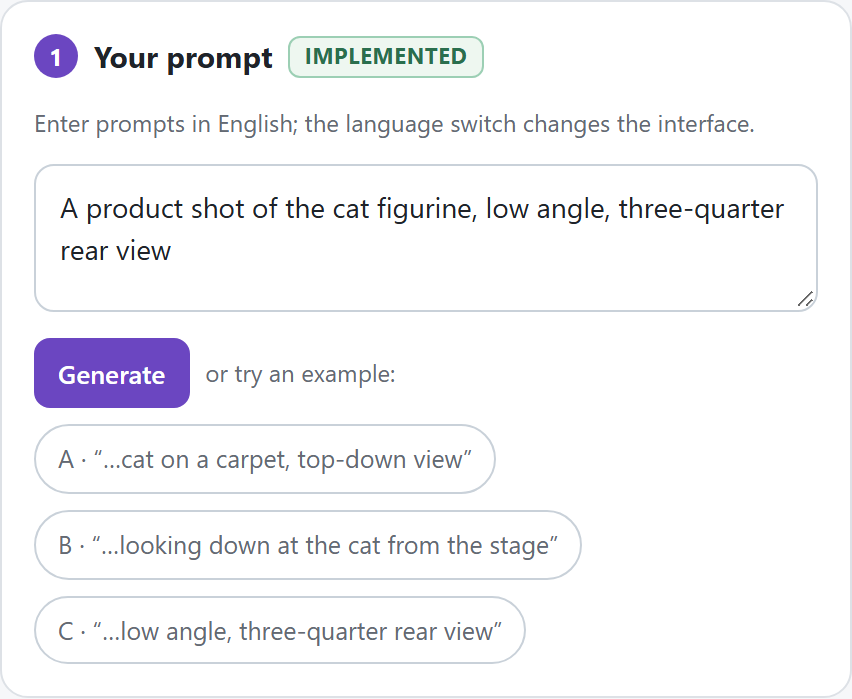
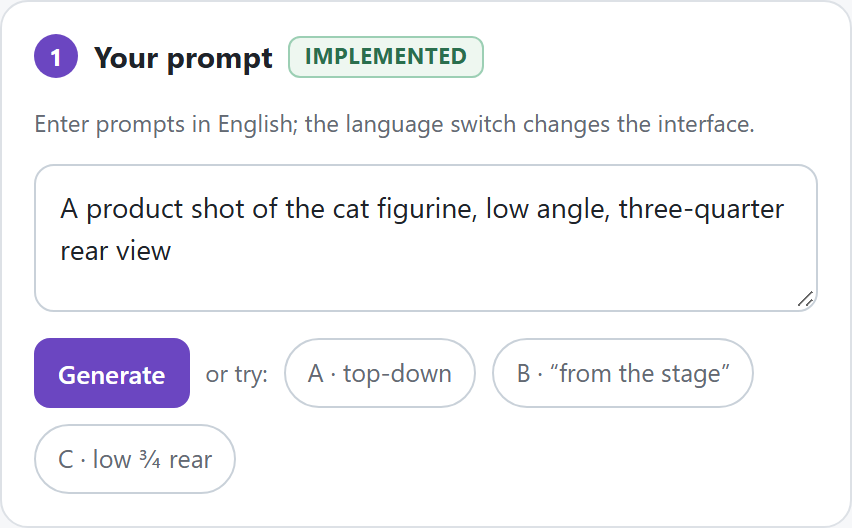
Example prompts as short chips on the Generate row
Full prompts stay available as hover titles. Re-shoot the storyboards.

Changed region(s): [[0.0305, 0.0303, 0.9765, 0.9697], [0.946, 0.5455, 0.9765, 0.5758]]

diff --git a/prototype/language.js b/prototype/language.js
@@ -33,8 +33,8 @@
     ['prompt reading (rules), comparison, 360° sphere, confirm before generating, version history','提示词解析（规则）、角度比较、360° 球体、生成前确认、版本历史'],
     ['image generation and viewpoint detection — no AI model is called; the “image” is a placeholder 3D render','图像生成和视角检测为模拟；未调用 AI 模型，图像为三维占位渲染'],
     ['implemented','已实现'],['simulated detector','模拟检测器'],['simulated model','模拟模型'],['simulated','模拟'],
-    ['Your prompt','你的提示词'],['Describe the image, including the camera angle you want…','请用英文描述图像和所需相机角度…'],['Prompt','提示词（英文）'],['Generate','生成'],['or try an example:','或试试示例：'],
-    ['A · “…cat on a carpet, top-down view”','A · 地毯上的猫，俯视'],['B · “…looking down at the cat from the stage”','B · 从舞台上往下看猫'],['C · “…low angle, three-quarter rear view”','C · 低角度，后侧四分之三视角'],
+    ['Your prompt','你的提示词'],['Describe the image, including the camera angle you want…','请用英文描述图像和所需相机角度…'],['Prompt','提示词（英文）'],['Generate','生成'],['or try:','或试试：'],
+    ['A · top-down','A · 俯视'],['B · “from the stage”','B · “从舞台上”'],['C · low ¾ rear','C · 低角度 ¾ 后方'],
     ['What the assistant understood','助手的理解'],['You asked for','你要求的角度'],['The image shows','图像显示的角度'],['Check','核对结果'],['waiting for a prompt','等待输入提示词'],
     ['Type a prompt and press Generate. Nothing is generated from an unclear angle, and nothing is regenerated until you confirm.','输入英文提示词并点击“生成”。角度不明确时会先询问你，重新生成前需要你的确认。'],
     ['Camera sphere','相机球体'],['Adjust camera','调整相机'],['Rotate sphere','旋转球体'],['Reset sphere view','重置球体视图'],['Result','结果'],['No image yet.','暂无图像。'],

diff --git a/prototype/index.html b/prototype/index.html
@@ -152,12 +152,10 @@
       <textarea id="prompt" aria-label="Prompt" placeholder="Describe the image, including the camera angle you want…"></textarea>
       <div class="row" style="margin-top:8px">
         <button class="primary" id="btnGenerate">Generate</button>
-        <span class="small">or try an example:</span>
-      </div>
-      <div class="row" style="margin-top:8px">
-        <button class="chip" data-example="A photorealistic cat sitting on a carpet, top-down view">A · “…cat on a carpet, top-down view”</button>
-        <button class="chip" data-example="Make it look like you're looking down at the cat from the stage">B · “…looking down at the cat from the stage”</button>
-        <button class="chip" data-example="A product shot of the cat figurine, low angle, three-quarter rear view">C · “…low angle, three-quarter rear view”</button>
+        <span class="small">or try:</span>
+        <button class="chip" data-example="A photorealistic cat sitting on a carpet, top-down view" title="A photorealistic cat sitting on a carpet, top-down view">A · top-down</button>
+        <button class="chip" data-example="Make it look like you're looking down at the cat from the stage" title="Make it look like you're looking down at the cat from the stage">B · “from the stage”</button>
+        <button class="chip" data-example="A product shot of the cat figurine, low angle, three-quarter rear view" title="A product shot of the cat figurine, low angle, three-quarter rear view">C · low ¾ rear</button>
       </div>
     </section>
 
